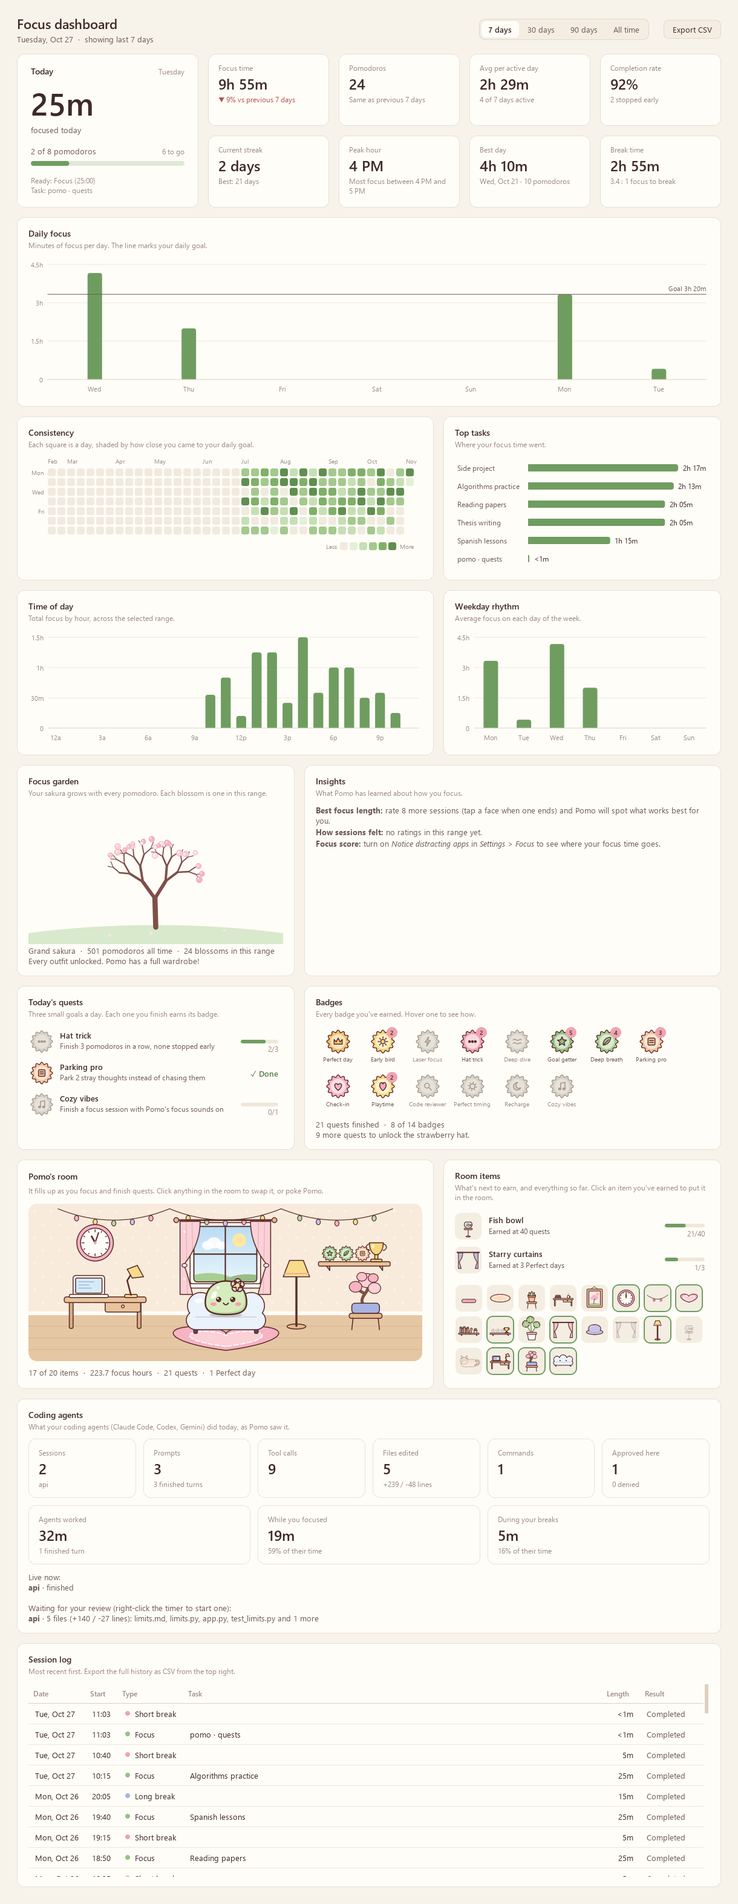
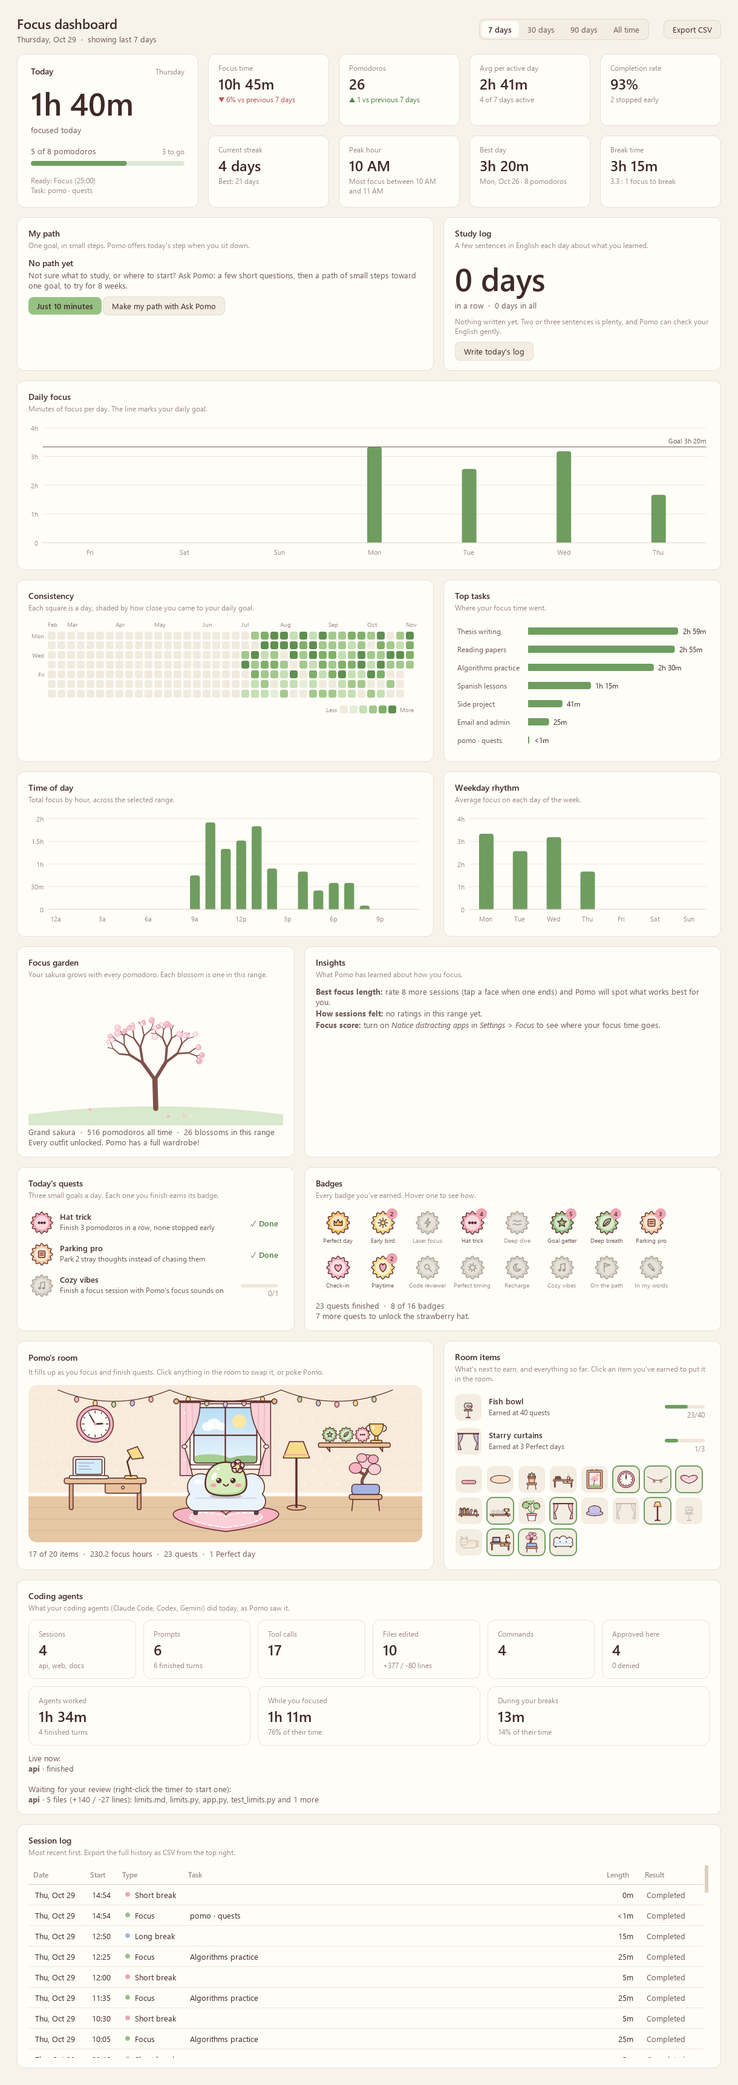
Docs: the study coach, app lock and Ultra focus in the README and on the website
- README: Ultra focus in What's inside, pictures for My path, the study
  log, App lock and Ultra focus, the lightning button and Study menu in
  the controls, path and log on the dashboard, a new dashboard picture
- Website: an Ultra focus section with the transformation, a study coach
  section, new quick links; the guide gets Study coach and Ultra focus
  sections and updated tables

diff --git a/docs/guide.html b/docs/guide.html
@@ -128,6 +128,9 @@
         <li><b>Dashboard</b>KPIs, charts, quests and badges, your room, agent activity, a session log and CSV export.</li>
         <li><b>Keeps an eye on your agents</b>Claude Code, Codex CLI and Gemini CLI: working, done, or needs you.</li>
         <li><b>Ask Pomo, with the AI you like</b>Claude, ChatGPT, Gemini, Grok or OpenRouter, with your own key.</li>
+        <li><b>A study coach</b>A path of small steps toward one goal, "just 10 minutes" to start, and a study log in English.</li>
+        <li><b>App lock</b>Games and other apps you lock are put away while you focus.</li>
+        <li><b>Ultra focus</b>Pomo powers up, and the apps you drag in stay blocked until you power down.</li>
       </ul>
       <p>Pomo runs on startup if you want it to: one switch in <i>Settings &gt; General</i>.</p>
       <figure class="shot desk small"><img src="popup.png" alt="The card when a focus session ends: what's next, agent news, a new outfit, How was that? with three Pomo faces, and Breathe and Thoughts" width="328" height="288" loading="lazy"></figure>
@@ -246,6 +249,38 @@
       <p>They work from any app. Change or turn them off in <i>Settings &gt; Shortcuts</i>.</p>
     </section>
 
+    <section id="study" data-title="Study coach">
+      <h2>Study coach</h2>
+      <p>For when the hard part isn't the timer, it's knowing what to study, starting, and believing you can.</p>
+      <h3>My path</h3>
+      <p>Not sure which direction to take, or what to study next? Click <b>My path</b> in Ask Pomo (or <i>Study &gt; My path</i> in the right-click menu). Pomo asks a few short questions (what you study, what you want it to lead to, how much time you have), then makes a path: one goal to try for 8 weeks, as an experiment you can change, in milestones of concrete steps that each take one to three pomodoros.</p>
+      <ul class="dots">
+        <li><b>Today's step is always ready.</b> Start a focus session without a task and today's step becomes it.</li>
+        <li><b>Pomodoros add up.</b> Each finished session on a step counts toward it. Once it has had the time you planned, the card asks <i>Is it done?</i> with a <b>Step done</b> button, and the next step takes over.</li>
+        <li><b>Make it yours.</b> In the My path window, tick steps off, double-click to rename, and right-click to start a step, change its pomodoros, or add and delete steps and milestones. Tell Ask Pomo "I finished the SQL basics" and it ticks that off for you.</li>
+        <li><b>Decide again at the end.</b> When the weeks are up, Pomo asks whether to keep going, or to look back with Ask Pomo and maybe change direction.</li>
+      </ul>
+      <figure class="shot"><img src="study.png" alt="The My path window, the morning card with today's step, and a session card asking if the step is done" width="930" height="688" loading="lazy"></figure>
+      <h3>Start small</h3>
+      <p><b>Just 10 minutes</b> starts a short focus session. When it ends, the card says <i>You started!</i> and offers to keep going for a full pomodoro on the same task. Each morning a card shows today's step, your streak, and a nudge to put your phone in another room, with <b>Start 10 minutes</b> right there. Change the length, or turn the morning card off, in <i>Settings &gt; Focus</i>.</p>
+      <h3>Study log</h3>
+      <p>In the evening, after a day with some focus, Pomo asks for two or three sentences in English about what you learned. Putting it in your own words helps you remember, and writing a little English every day builds confidence. With an AI key, <b>Save and check my English</b> gives you your text with minimal corrections, a few notes on why, and one thing you did well. The log stays on your PC and is only sent to your AI provider when you ask for a check. Two daily quests go with it: <i>On the path</i> and <i>In my words</i>.</p>
+      <figure class="shot medium"><img src="studylog.png" alt="The study log, with Pomo's notes on the English" width="521" height="688" loading="lazy"></figure>
+      <h3 id="applock">App lock</h3>
+      <p>Easily pulled away by games? Turn on <i>App lock</i> in <i>Settings &gt; Focus</i> and drag the apps onto the list from your desktop, the Start menu or a folder. Shortcuts work, including Steam and Epic game shortcuts. During a focus session, when a locked app comes to the front, Pomo puts it away and shows a card: <b>Back to work</b>, or <b>Close</b> it. Unlocking it until your break takes a 10-second wait. Choose <i>Close them instead of putting them away</i> to be strict.</p>
+      <p>Only an administrator can stop a program from starting at all, and Pomo never asks for admin rights, so the lock works on the app in front.</p>
+      <figure class="shot desk"><img src="applock.png" alt="The lock card, and its Ultra focus version" width="1032" height="333" loading="lazy"></figure>
+    </section>
+
+    <section id="ultra" data-title="Ultra focus">
+      <h2>Ultra focus</h2>
+      <p>For the days you need to go all in. Click the lightning button beside Pomo (on the island, or on the orb's rim), or <i>Ultra focus</i> in the right-click menu. Drag in the apps to block: from your desktop, the Start menu or a folder; the ones you picked last time are already there.</p>
+      <p>Then Pomo powers up in the middle of your screen: a trembling charge, a flash, a tall flame of golden spikes, fire in his eyes, a glowing aura and white lightning crackling around him, with <b>ULTRA FOCUS</b> across the bottom and a power-up sound (if alert sounds are on). A focus session starts at the burst.</p>
+      <figure class="shot"><img src="ultra_transform.png" alt="Pomo's power-up, frame by frame" width="2080" height="290" loading="lazy"></figure>
+      <p>While it's on, the timer says <b>ULTRA FOCUS</b>, Pomo keeps the look, and the apps you picked stay blocked the whole time, breaks included. There's no quick unlock: to get them back, power down, which takes a 10-second wait. Ultra focus stays on if Pomo restarts.</p>
+      <figure class="shot"><img src="ultra.png" alt="Go Ultra: the apps dragged in, the transformation, and the island in Ultra focus" width="1582" height="568" loading="lazy"></figure>
+    </section>
+
     <section id="rewards" data-title="Garden, quests, room">
       <h2>Garden, quests and Pomo's room</h2>
       <h3>Focus garden</h3>
@@ -266,7 +301,7 @@
           <tr><td>Perfect timing</td><td>Take a break while a coding agent works</td></tr>
         </table>
       </div>
-      <p>There are thirteen in all. Each one earns its badge (badges count up when you earn them again), and finishing all three in a day earns <i>Perfect day</i>. Quests also unlock outfits: a star clip at 5 quests, bunny ears at 15 and a strawberry hat at 30. Turn them off in <i>Settings &gt; Focus</i>.</p>
+      <p>There are fifteen in all. Each one earns its badge (badges count up when you earn them again), and finishing all three in a day earns <i>Perfect day</i>. Quests also unlock outfits: a star clip at 5 quests, bunny ears at 15 and a strawberry hat at 30. Turn them off in <i>Settings &gt; Focus</i>.</p>
       <figure class="shot"><img src="quests.png" alt="Today's quests and the badge shelf" width="1220" height="319" loading="lazy"></figure>
       <h3 id="room">Pomo's room</h3>
       <p>Pomo has a room on the dashboard. It starts with a cushion and a rug under a window, and fills up as you go.</p>
@@ -368,7 +403,8 @@
           <tr><td>Play</td><td>Poke, pet or double-click Pomo; click the dango to feed a treat or the petal for the games</td></tr>
           <tr><td>Music and sounds</td><td>The now-playing row or music badge; the headphones button beside Pomo for focus sounds</td></tr>
           <tr><td>Taskbar</td><td>Hover Pomo's taskbar button for reset, play/pause and skip</td></tr>
-          <tr><td>Everything else</td><td>Right-click: switch mode, add time, set task, your plan, parked thoughts, daily goal, timer style, theme, outfit, Pomo's room, Ask Pomo, games, Breathe, focus sounds, quests, music, reviews, coding agents, run on startup, hide, quit</td></tr>
+          <tr><td>Ultra focus</td><td>The lightning button beside Pomo (it glows gold while it's on)</td></tr>
+          <tr><td>Everything else</td><td>Right-click: switch mode, add time, set task, your plan, parked thoughts, daily goal, timer style, theme, outfit, Pomo's room, Study, Ultra focus, Ask Pomo, games, Breathe, focus sounds, quests, music, reviews, coding agents, run on startup, hide, quit</td></tr>
           <tr><td>Tray icon</td><td>Click to bring the timer back; double-click for the dashboard</td></tr>
         </table>
       </div>
@@ -381,6 +417,7 @@
         <li><b>Today and KPIs:</b> focus time, pomodoros against your goal, change from the previous period, completion rate, streaks, peak hour, best day and break time.</li>
         <li><b>Charts:</b> daily focus with a goal line, a consistency heatmap, top tasks, time of day and weekday rhythm.</li>
         <li><b>Garden and insights:</b> your sakura tree, your best focus length, how sessions felt, your focus score and where your focus time went.</li>
+        <li><b>My path and Study log:</b> your goal and today's step, and your log's streak.</li>
         <li><b>Quests, badges and Pomo's room:</b> today's quests, every badge, the room you're furnishing and what's next to earn.</li>
         <li><b>Coding agents:</b> today's activity, how agent work overlapped with your focus and breaks, and changes waiting for review.</li>
         <li><b>Session log</b> with CSV export, and a range of 7 days, 30 days, 90 days or all time.</li>
@@ -394,7 +431,7 @@
         <table>
           <tr><th>Tab</th><th>What you can change</th></tr>
           <tr><td>Timer</td><td>Focus, short and long break lengths; long break interval; daily goal; auto-start</td></tr>
-          <tr><td>Focus</td><td>Session ratings, cheering, away detection, the distraction check-in, quiet focus, the break card, "Where was I?", naming sessions after your project, daily quests</td></tr>
+          <tr><td>Focus</td><td>Session ratings, cheering, away detection, the distraction check-in, quiet focus, the break card, "Where was I?", naming sessions after your project, daily quests, the morning card, starting small, the study log, app lock</td></tr>
           <tr><td>Alerts</td><td>Notifications, pop-up card, sound, volume, repeats, idle reminder</td></tr>
           <tr><td>Appearance</td><td>Theme, timer style, show Pomo, outfit, dressing for what you're doing, tucking the island away, orb size, opacity, always on top, colors</td></tr>
           <tr><td>Agents</td><td>Connect Claude Code, Codex CLI and Gemini CLI; reviews; approvals and wait times; finish notifications; answering questions; replies; break suggestions</td></tr>
@@ -404,7 +441,7 @@
         </table>
       </div>
       <h3 id="privacy">Your data</h3>
-      <p>Everything lives in <code>%APPDATA%\Pomo</code>: your settings (with quests, badges and your room), your history (sessions, ratings, agent activity, parked thoughts), the prepared focus sounds, a downloaded update until it's installed, and your API keys, encrypted. Window titles are never written to disk, and voice recordings only pass through a temporary file that's deleted right away. To check for updates, Pomo asks GitHub's public API every hour; nothing about you is sent with it.</p>
+      <p>Everything lives in <code>%APPDATA%\Pomo</code>: your settings (with quests, badges, your room and your path), your history (sessions, ratings, agent activity, parked thoughts, your study log), the prepared focus sounds, a downloaded update until it's installed, and your API keys, encrypted. Window titles are never written to disk, and voice recordings only pass through a temporary file that's deleted right away. To check for updates, Pomo asks GitHub's public API every hour; nothing about you is sent with it.</p>
     </section>
 
     <section id="developers" data-title="For developers">
@@ -459,6 +496,12 @@ pomodoro/thoughts.py        the thought parking lot
 pomodoro/breathe.py         Breathe with Pomo
 pomodoro/garden.py          the focus garden and outfit unlocks
 pomodoro/room.py            Pomo's room: the items, what earns them, and their drawings
+pomodoro/studypath.py       your path: goal, milestones, steps and today's step
+pomodoro/path_window.py     the My path window
+pomodoro/studylog.py        the study log in English, and its gentle English tutor
+pomodoro/applock.py         app lock and the lock card; dragged-in apps and shortcuts
+pomodoro/ultra.py           Ultra focus drawings: aura, golden hair, fire in the eyes
+pomodoro/ultra_mode.py      Ultra focus windows: picking apps, the transformation, powering down
 pomodoro/hotkeys.py         global shortcuts (Win32 RegisterHotKey)
 pomodoro/music_card.py      the mini player card
 pomodoro/dashboard.py       dashboard window

diff --git a/docs/index.html b/docs/index.html
@@ -53,6 +53,8 @@
 
   .spot { display: grid; grid-template-columns: 1fr 1.2fr; gap: 56px; align-items: center; }
   .spot.flip > :first-child { order: 2; }
+  .ultra-strip { margin-top: 36px; }
+  .ultra-shots { margin-top: 18px; }
   .tags { display: flex; flex-wrap: wrap; gap: 10px; margin-top: 20px; }
   .tag { padding: 6px 14px; border-radius: 999px; background: var(--raised); font-weight: 700; font-size: 14px; }
 
@@ -89,7 +91,7 @@
     <a class="brand" href="#top"><img src="icon.png" alt="" width="30" height="30">Pomo</a>
     <div class="links">
       <a class="optional" href="#highlights">Features</a>
-      <a class="optional" href="#room">Pomo's room</a>
+      <a class="optional" href="#ultra">Ultra focus</a>
       <a href="guide.html">Guide</a>
       <a class="optional" href="https://github.com/sahilwagh99/pomo">GitHub</a>
       <a class="get" href="https://github.com/sahilwagh99/pomo/releases/latest/download/Pomo-Setup.exe">Download</a>
@@ -100,7 +102,7 @@
 <header class="hero" id="top">
   <div class="wrap">
     <div>
-      <a class="chip" href="#room">New in 1.6: Pomo's room</a>
+      <a class="chip" href="#ultra">New: Ultra focus mode</a>
       <h1>A cozy Pomodoro timer <span class="soft">for Windows</span></h1>
       <p class="lead">Starring Pomo the matcha mochi, who sits on your timer, cheers you on, takes breaks with you and keeps an eye on your coding agents.</p>
       <div class="actions">
@@ -162,7 +164,33 @@
   </div>
 </section>
 
-<section class="alt" id="room">
+<section class="center" id="ultra">
+  <div class="wrap">
+    <div class="eyebrow">New: Ultra focus</div>
+    <h2>For the days you go all in</h2>
+    <p class="lead">Click the lightning button and drag in the apps that pull you away. Pomo powers up, with tall golden hair, fire in his eyes and a crackling aura, and those apps stay blocked, breaks included, until you power down.</p>
+    <div class="shot ultra-strip"><img src="ultra_transform.png" alt="Pomo's power-up, frame by frame: straining as the aura charges, a flash, the golden hair bursting up, then the steady glow with lightning" width="2080" height="290" loading="lazy"></div>
+    <div class="shot ultra-shots"><img src="ultra.png" alt="Go Ultra: the apps dragged in to block, the transformation with ULTRA FOCUS, and the island in Ultra focus" width="1582" height="568" loading="lazy"></div>
+  </div>
+</section>
+
+<section class="alt" id="study">
+  <div class="wrap spot">
+    <div>
+      <div class="eyebrow">New: a study coach</div>
+      <h2>Know what to study next</h2>
+      <p class="lead">Not sure which direction to take? Ask Pomo asks a few questions and builds your path: one goal, in small steps. You always know today's step.</p>
+      <ul class="dots">
+        <li><b>Start small.</b> "Just 10 minutes" gets you going, then Pomo asks if you'll keep going.</li>
+        <li><b>A study log in English.</b> A few sentences a day, with gentle notes on your English.</li>
+        <li><b>App lock.</b> Games you lock are put away while you focus.</li>
+      </ul>
+    </div>
+    <div class="shot"><img src="study.png" alt="The My path window, the morning card with today's step, and a session card asking if the step is done" width="930" height="688" loading="lazy"></div>
+  </div>
+</section>
+
+<section id="room">
   <div class="wrap spot">
     <div>
       <div class="eyebrow">New in 1.6</div>
@@ -212,6 +240,11 @@
       <a href="guide.html#looks">Twenty-one outfits</a>
       <a href="guide.html#agents">Agent-paced pomodoros</a>
       <a href="guide.html#install">One-click updates</a>
+      <a href="guide.html#study">My path</a>
+      <a href="guide.html#study">Just 10 minutes</a>
+      <a href="guide.html#study">A study log in English</a>
+      <a href="guide.html#study">App lock for games</a>
+      <a href="#room">Pomo's room</a>
     </div>
   </div>
 </section>

diff --git a/README.md b/README.md
@@ -51,6 +51,7 @@ Pomo used to be called FocusOrb. Run `Pomo-Setup.exe` and it removes FocusOrb fo
 - **Breathe with Pomo.** A short guided break: box breathing, rest your eyes, stretch.
 - **A study coach.** Not sure what to study next? Ask Pomo builds you a path of small steps toward one goal, and Pomo always knows today's step. Start with *just 10 minutes* when it's hard to begin, and write a few sentences in English each evening, with gentle notes on your English if you like.
 - **App lock.** Games and other apps you lock are put away while you focus, with a card to get you back to work.
+- **Ultra focus.** For the days you need to go all in: Pomo powers up (spiky golden hair, fire in his eyes, a crackling golden aura) and the apps you drag in stay blocked, breaks included, until you power down.
 - **Daily quests and badges.** Three small goals a day, like "2 pomodoros before 10 AM", with a badge for each and new outfits now and then.
 - **Focus garden.** A sakura tree that grows with every pomodoro and unlocks new outfits.
 - **Pomo's room.** A cozy room on the dashboard that fills up with furniture you earn from focus hours, quests and Perfect days. Swap things around with a click.
@@ -242,6 +243,8 @@ Not sure which direction to take, or what to study next? Click **My path** in As
 - **Make it yours.** In the My path window, tick steps off, double-click to rename, and right-click to start a step, change how many pomodoros it takes, add or delete steps and milestones. Tell Ask Pomo "I finished the SQL basics" and it ticks that off for you.
 - **Decide again at the end.** When the weeks are up, Pomo asks whether to keep going for a few more weeks, or to look back with Ask Pomo and maybe change direction.
 
+<div align="center"><img src="docs/study.png" alt="The My path window with today's step and every milestone, the morning card offering to start today's step with 10 minutes, and a session card asking if the step is done" width="100%"></div>
+
 ### Start small
 
 Can't get yourself to start? **Just 10 minutes** starts a short focus session. When it ends, the card says *You started!* and offers to keep going for a full pomodoro on the same task. Starting is the hard part; this makes it small. Each morning a card shows today's step, your streak, and a nudge to put your phone in another room, with **Start 10 minutes** right there. Change the length, or turn the morning card off, in *Settings > Focus*.
@@ -252,17 +255,25 @@ In the evening, after a day with some focus, Pomo asks for two or three sentence
 
 Two daily quests go with it: *On the path* (finish a step) and *In my words* (write your log).
 
+<div align="center"><img src="docs/studylog.png" alt="The study log: today's entry, and Pomo's notes on the English: a polished version, three fixes with why, and what went well" width="420"></div>
+
 ### App lock
 
 Easily pulled away by games? Turn on *App lock* in *Settings > Focus* and drag the apps to lock onto the list, from your desktop, the Start menu or a folder (or browse for them). During a focus session, when a locked app comes to the front, Pomo puts it away and shows a card: **Back to work** brings your work window back, or **Close** it. You can unlock it until your break, but only after a 10-second wait, so it's a decision rather than a reflex. Choose *Close them instead of putting them away* to be strict. The break card tells you how many times the lock kept them away.
 
 Only an administrator can stop a program from starting at all, and Pomo never asks for admin rights, so the lock works on the app in front, during focus sessions only.
 
+<div align="center"><img src="docs/applock.png" alt="The lock card: Valorant is locked, with Back to work, Close Valorant and Unlock until my break; and its Ultra focus version" width="760"></div>
+
 ### Ultra focus
 
 For the days you need to go all in. Click the lightning button beside Pomo (on the island, or on the orb's rim), or *Ultra focus* in the right-click menu. Pomo asks which apps to block: drag them in from your desktop, the Start menu or a folder (shortcuts work, including Steam and Epic game shortcuts), and the ones you picked last time are already there. Then he powers up in the middle of your screen: a trembling charge, a flash, a tall flame of layered golden spikes with bangs over his forehead, fire in his eyes, a glowing golden aura and white lightning crackling around him, with **ULTRA FOCUS** across the bottom (and a power-up sound, if your alert sounds are on). A focus session starts at the burst, unless you untick it.
 
-While Ultra focus is on, Pomo keeps the look on your timer and the apps you picked stay blocked the whole time, breaks included. There's no quick unlock: to get them back, power down, which takes a 10-second wait so it's a decision rather than a reflex. Ultra focus stays on if Pomo restarts.
+While Ultra focus is on, Pomo keeps the look on your timer and the apps you picked stay blocked the whole time, breaks included. There's no quick unlock: to get them back, power down, which takes a 10-second wait so it's a decision rather than a reflex. Ultra focus stays on if Pomo restarts. The timer says **ULTRA FOCUS** instead of FOCUS, with a gold dot.
+
+<div align="center"><img src="docs/ultra_transform.png" alt="Pomo's power-up, frame by frame: straining as the aura charges, a flash, the golden hair bursting up, then the steady glow with lightning" width="100%"></div>
+
+<div align="center"><img src="docs/ultra.png" alt="Go Ultra: the apps dragged in to block; the transformation with ULTRA FOCUS; and the island in Ultra focus" width="100%"></div>
 
 ## Focus garden
 
@@ -460,7 +471,8 @@ Replies are read by a Windows voice on your PC (pick one in *Settings > AI*). Po
 | Focus sounds | The headphones button beside Pomo on the island, or on the orb's rim |
 | From any app | The [global shortcuts](#global-shortcuts): start or pause, skip, park a thought, music, show or hide, talk to Pomo |
 | Taskbar | Hover Pomo's taskbar button for reset, play/pause and skip; click it to bring the timer up |
-| Everything else | Right-click: switch mode, add time, set task, your plan, park a thought, parked thoughts, daily goal, timer style, theme, outfit, Ask Pomo, Talk to Pomo, games, Breathe with Pomo, focus sounds, today's quests, music, reviews waiting, coding agents, run on startup, hide, quit |
+| Ultra focus | The lightning button beside Pomo on the island, or on the orb's rim (it glows gold while it's on) |
+| Everything else | Right-click: switch mode, add time, set task, your plan, park a thought, parked thoughts, daily goal, timer style, theme, outfit, Pomo's room, Study (today's step, just 10 minutes, my path, study log), Ultra focus, Ask Pomo, Talk to Pomo, games, Breathe with Pomo, focus sounds, today's quests, music, reviews waiting, coding agents, run on startup, hide, quit |
 | Tray icon | Click to bring the timer back; double-click for the dashboard |
 
 ## Dashboard
@@ -474,6 +486,7 @@ Open it with the chart button on the timer, from the right-click menu or by doub
 - **Charts:** daily focus with a goal line, a consistency heatmap, top tasks, time of day and weekday rhythm.
 - **Focus garden:** your sakura tree and the next outfit to earn.
 - **Insights:** your best focus length, how your sessions felt, your focus score, and where your focus time went.
+- **My path and Study log:** your goal and today's step, with a button to start it, and your log's streak.
 - **Quests and badges:** today's three quests with their progress, and every badge you've earned.
 - **Pomo's room:** the room you're furnishing, what's next to earn, and every item so far.
 - **Coding agents:** today's sessions, prompts, tool calls, files edited, commands and approvals, how long agents worked and how much of it overlapped with your focus and breaks, what is running right now, and the changes waiting for your review.
